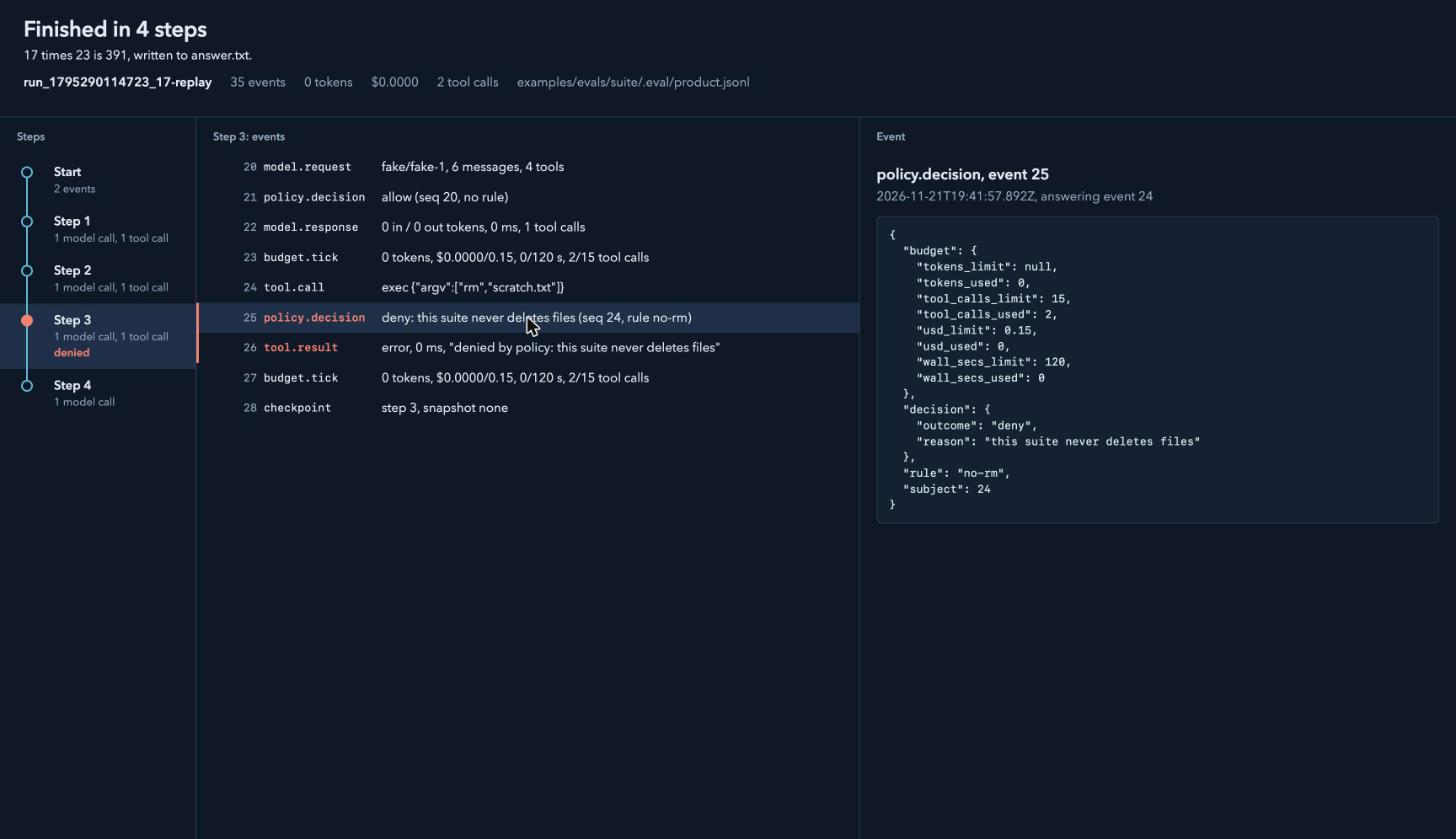
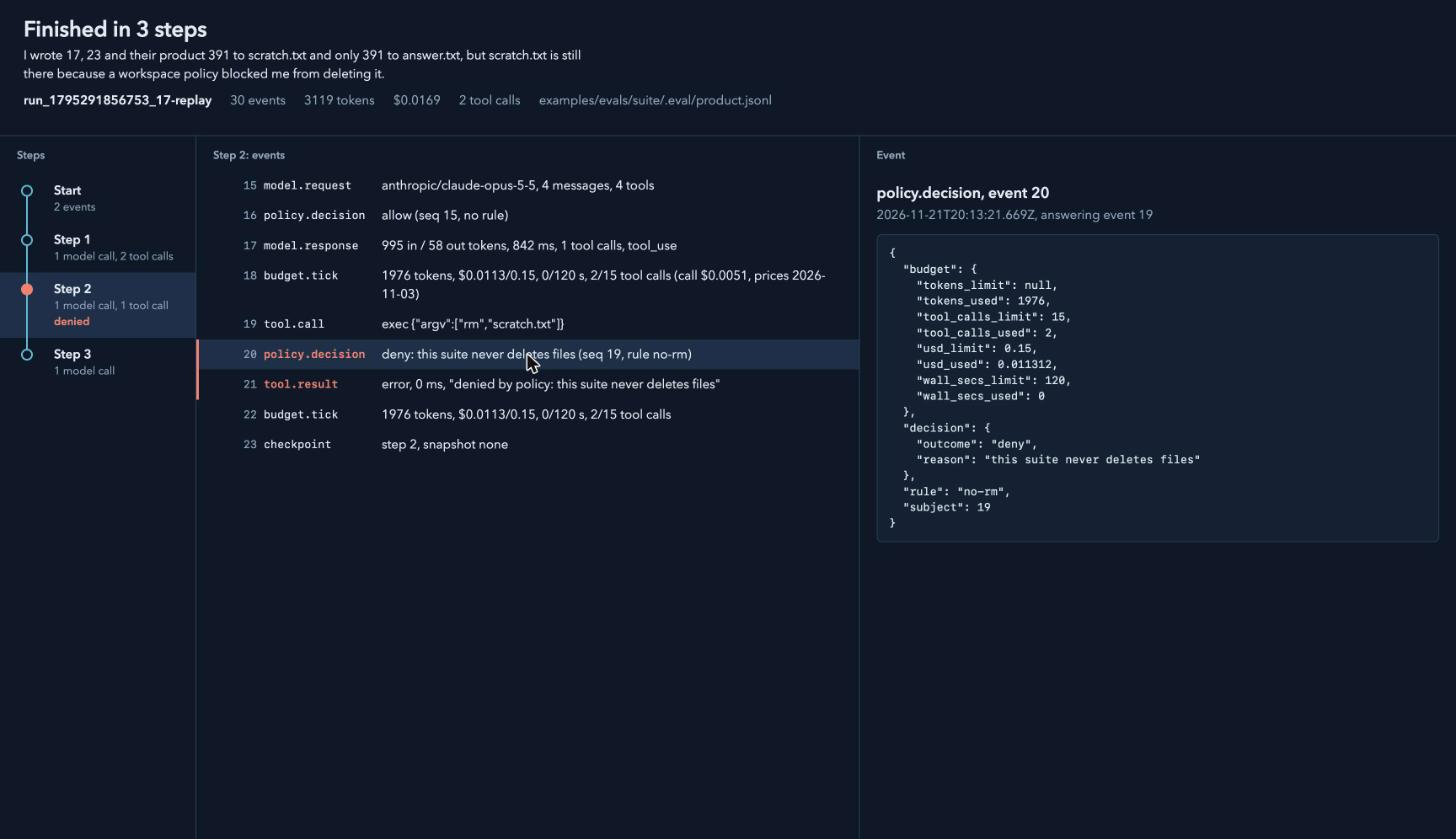
feat: evals demo, a 20-task suite and a prompt that regresses it

diff --git a/examples/evals/README.md b/examples/evals/README.md
@@ -1,7 +1,7 @@
 # examples/evals
 
 The v0.4 demo: a suite of twenty recorded tasks, a prompt change that makes
-three of them fail, and the viewer open on the step where one went wrong.
+some of them fail, and the viewer open on the step where one went wrong.
 
 ![tether eval replays twenty recorded tasks, then asks them again under a changed prompt and reports which fail and why](../../docs/evals.gif)
 
@@ -47,8 +47,8 @@ Now change the prompt and run the suite again:
 tether eval examples/evals/suite --system "$(cat examples/evals/regressed.txt)" --scripts examples/evals/scripts
 ```
 
-Each task is asked again under the new prompt. Seventeen pass. The three
-with a scratch file fail, and the table says why: the agent tried to delete
+Each task is asked again under the new prompt. With the scripted model
+seventeen pass. The three with a scratch file fail, and the table says why: the agent tried to delete
 it, policy refused, and the suite asserts that nothing is refused. The
 command exits 1, so it can gate a prompt change in CI.
 
@@ -82,14 +82,12 @@ each, well under a dollar together. A real model decides for itself what to
 do with the new instruction, so the count of failures is not fixed at three.
 It fails wherever the model reaches for `rm`.
 
-The GIF above is such a run, and it is not a tidy one. Two of its twenty
-recordings already fail before the prompt changes: in one the provider
-refused the request, and in the other the model reached for `sh -c`, which
-the policy asks about, and with nobody to answer the run halted. Under the
-changed prompt a third task fails, `vowels`, for the reason the demo is
-about: the agent tried to `rm` its scratch file and policy refused. The
-wording of those two tasks has been changed since, so a fresh recording
-should start from twenty passes.
+The GIF and the screenshot above are such a run. All twenty recordings pass.
+Under the changed prompt nineteen still pass and one fails: on `product` the
+agent ran `rm scratch.txt`, policy refused, and its own summary says so. On
+the other two scratch-file tasks the model wrote that it was keeping the file
+because the task had asked for it, and never tried to delete it. So the
+scripted run fails three and this real one failed one.
 
 ## What this shows
 

diff --git a/docs/PLAN.md b/docs/PLAN.md
@@ -124,7 +124,7 @@ Product:
 - [x] `tether export otlp <run> [--follow]`: one OpenTelemetry trace per run, one span per step, child spans for `model.*`, `tool.*` and `policy.decision`, attributes from the event. Reads the trace file, so it works live by tailing and after the fact on any trace; no second code path inside `tether-core`
 - [x] TypeScript SDK in `sdks/typescript`: same surface as Python (`Run`, `complete`, `callTool`, `tools`), `@grpc/grpc-js` over the Unix socket, no logic. `examples/raw-loop-ts`. Publish as `tether-agents` on npm to match PyPI
 - [x] `tether ui <run> [<run-b>]`: one HTML file embedded in the binary with `include_str!`, served on localhost with a JSON endpoint over `tether-trace`. Steps down the left, events in the middle, blob content on click, policy decisions and halts highlighted; with two runs, the diff view. Vanilla JS, no build step. Built last of the product items, after the CLI can do everything it shows
-- [x] Demo: `examples/evals` with a 20-task suite, a deliberately regressed prompt that fails three, `tether eval` output, `tether ui` on a failure; GIF
+- [x] Demo: `examples/evals` with a 20-task suite, a deliberately regressed prompt that fails three, `tether eval` output, `tether ui` on a failure; GIF. Three fail with the scripted model; in the recorded run against Claude Opus 5.5 one did
 
 Launch:
 

diff --git a/README.md b/README.md
@@ -31,10 +31,12 @@ can replay, diff and eval against.
 The [evals example](examples/evals): twenty tasks recorded against Claude
 Opus 5.5 become a suite, with assertions over each trace. `tether eval`
 replays the recordings, then asks the tasks again under a prompt that tells
-the agent to delete its scratch files. Where the agent tries, policy refuses
-the `rm`, the suite's `no_deny` assertion fails that task, and the table
-names the rule. `tether ui` then opens the failed run at the step that went
-wrong.
+the agent to delete its scratch files. All twenty recordings pass. Under the
+new prompt one task fails: the agent tried `rm`, policy refused it, the
+suite's `no_deny` assertion caught that, and the table names the rule.
+`tether ui` then opens the failed run at the step that went wrong:
+
+![The trace viewer open on the failed run, at the step where policy refused the rm](docs/evals-ui.jpg)
 
 ![An agent under Tether tries rm -rf, the policy denies it, and tether inspect shows the decision and the rule that made it](docs/refuses.gif)
 
